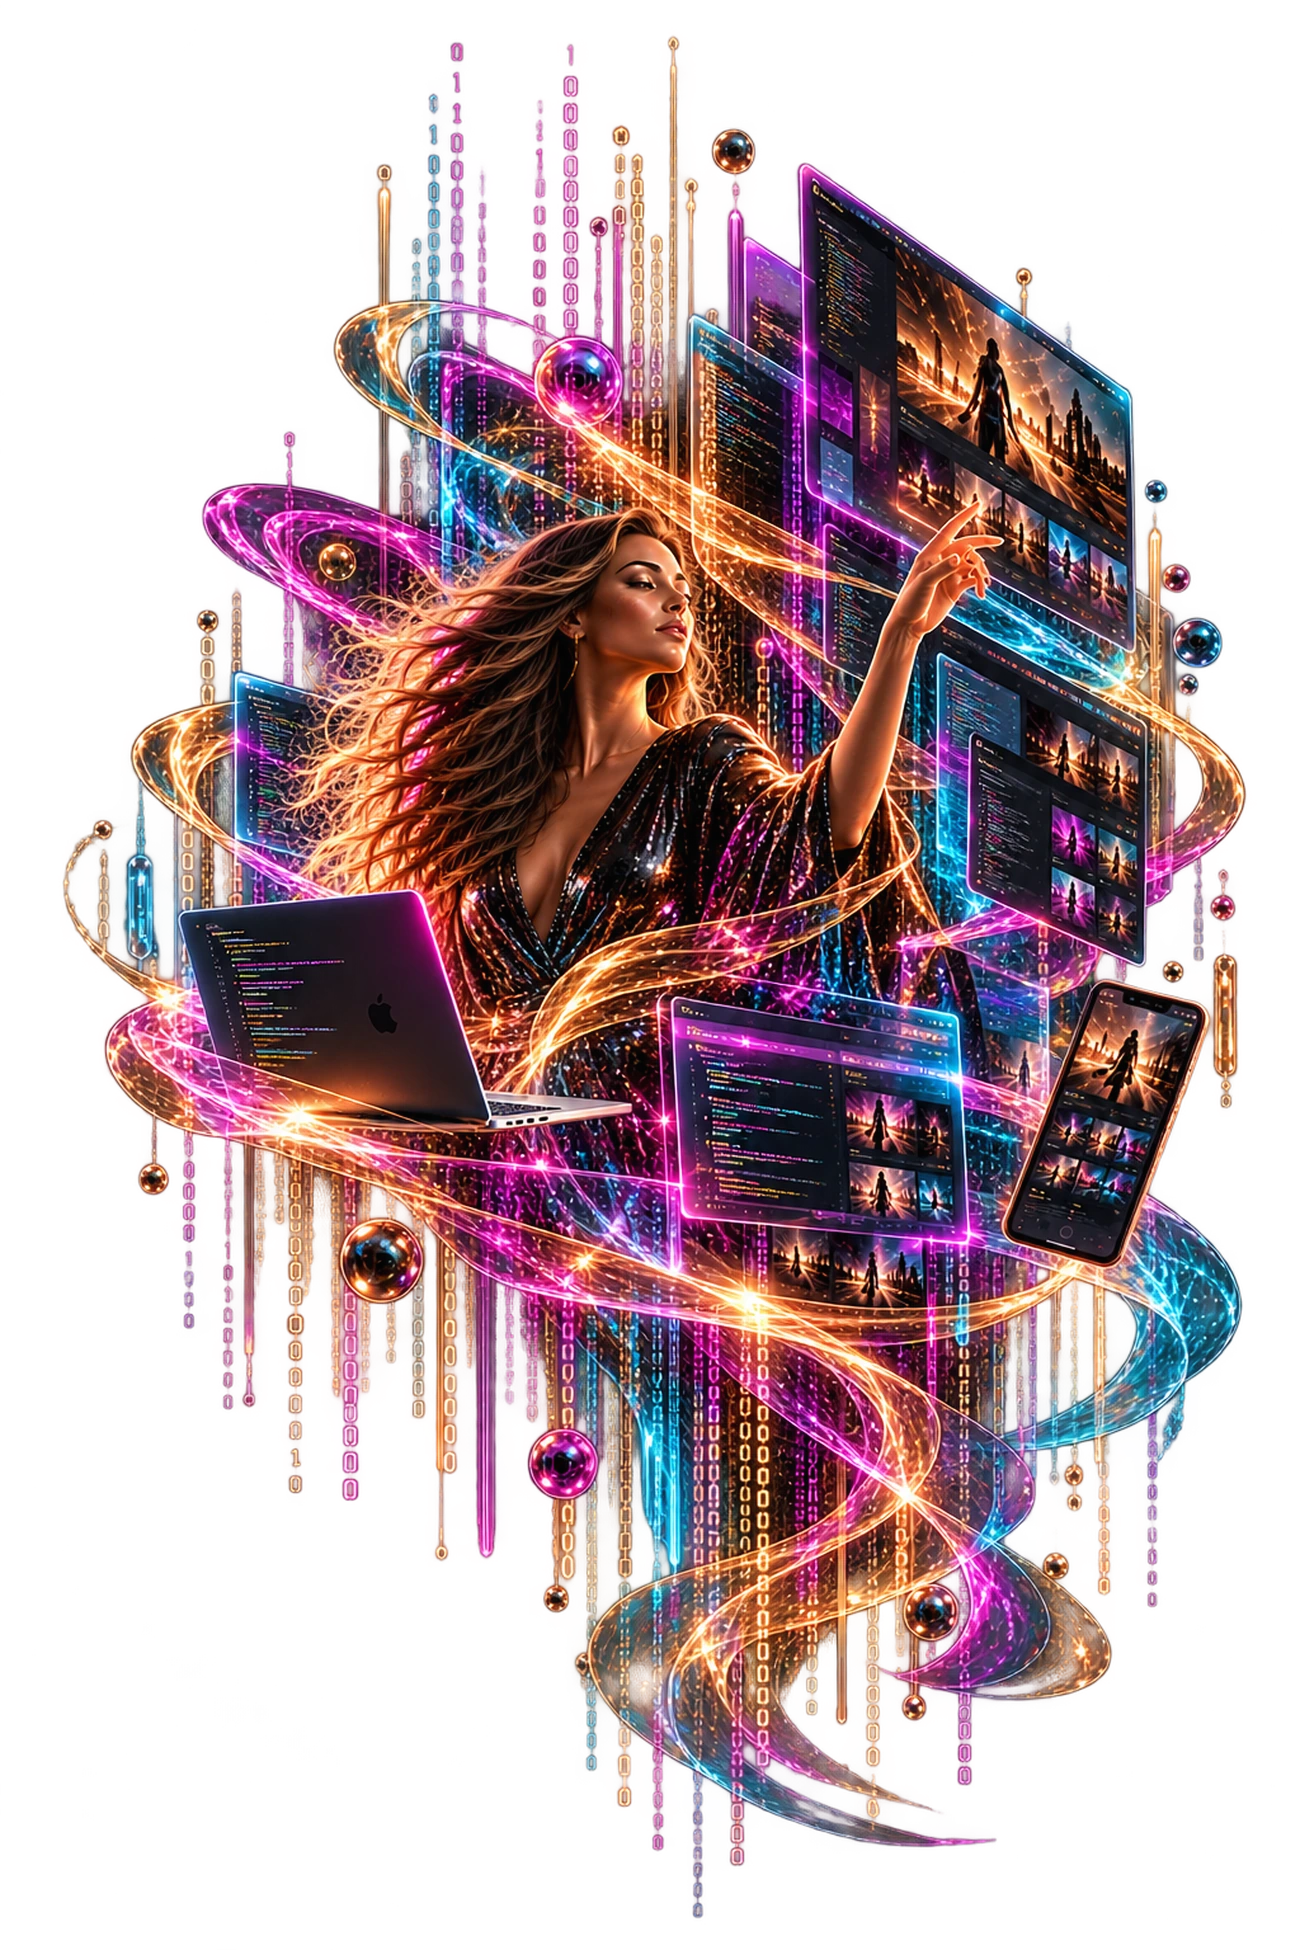
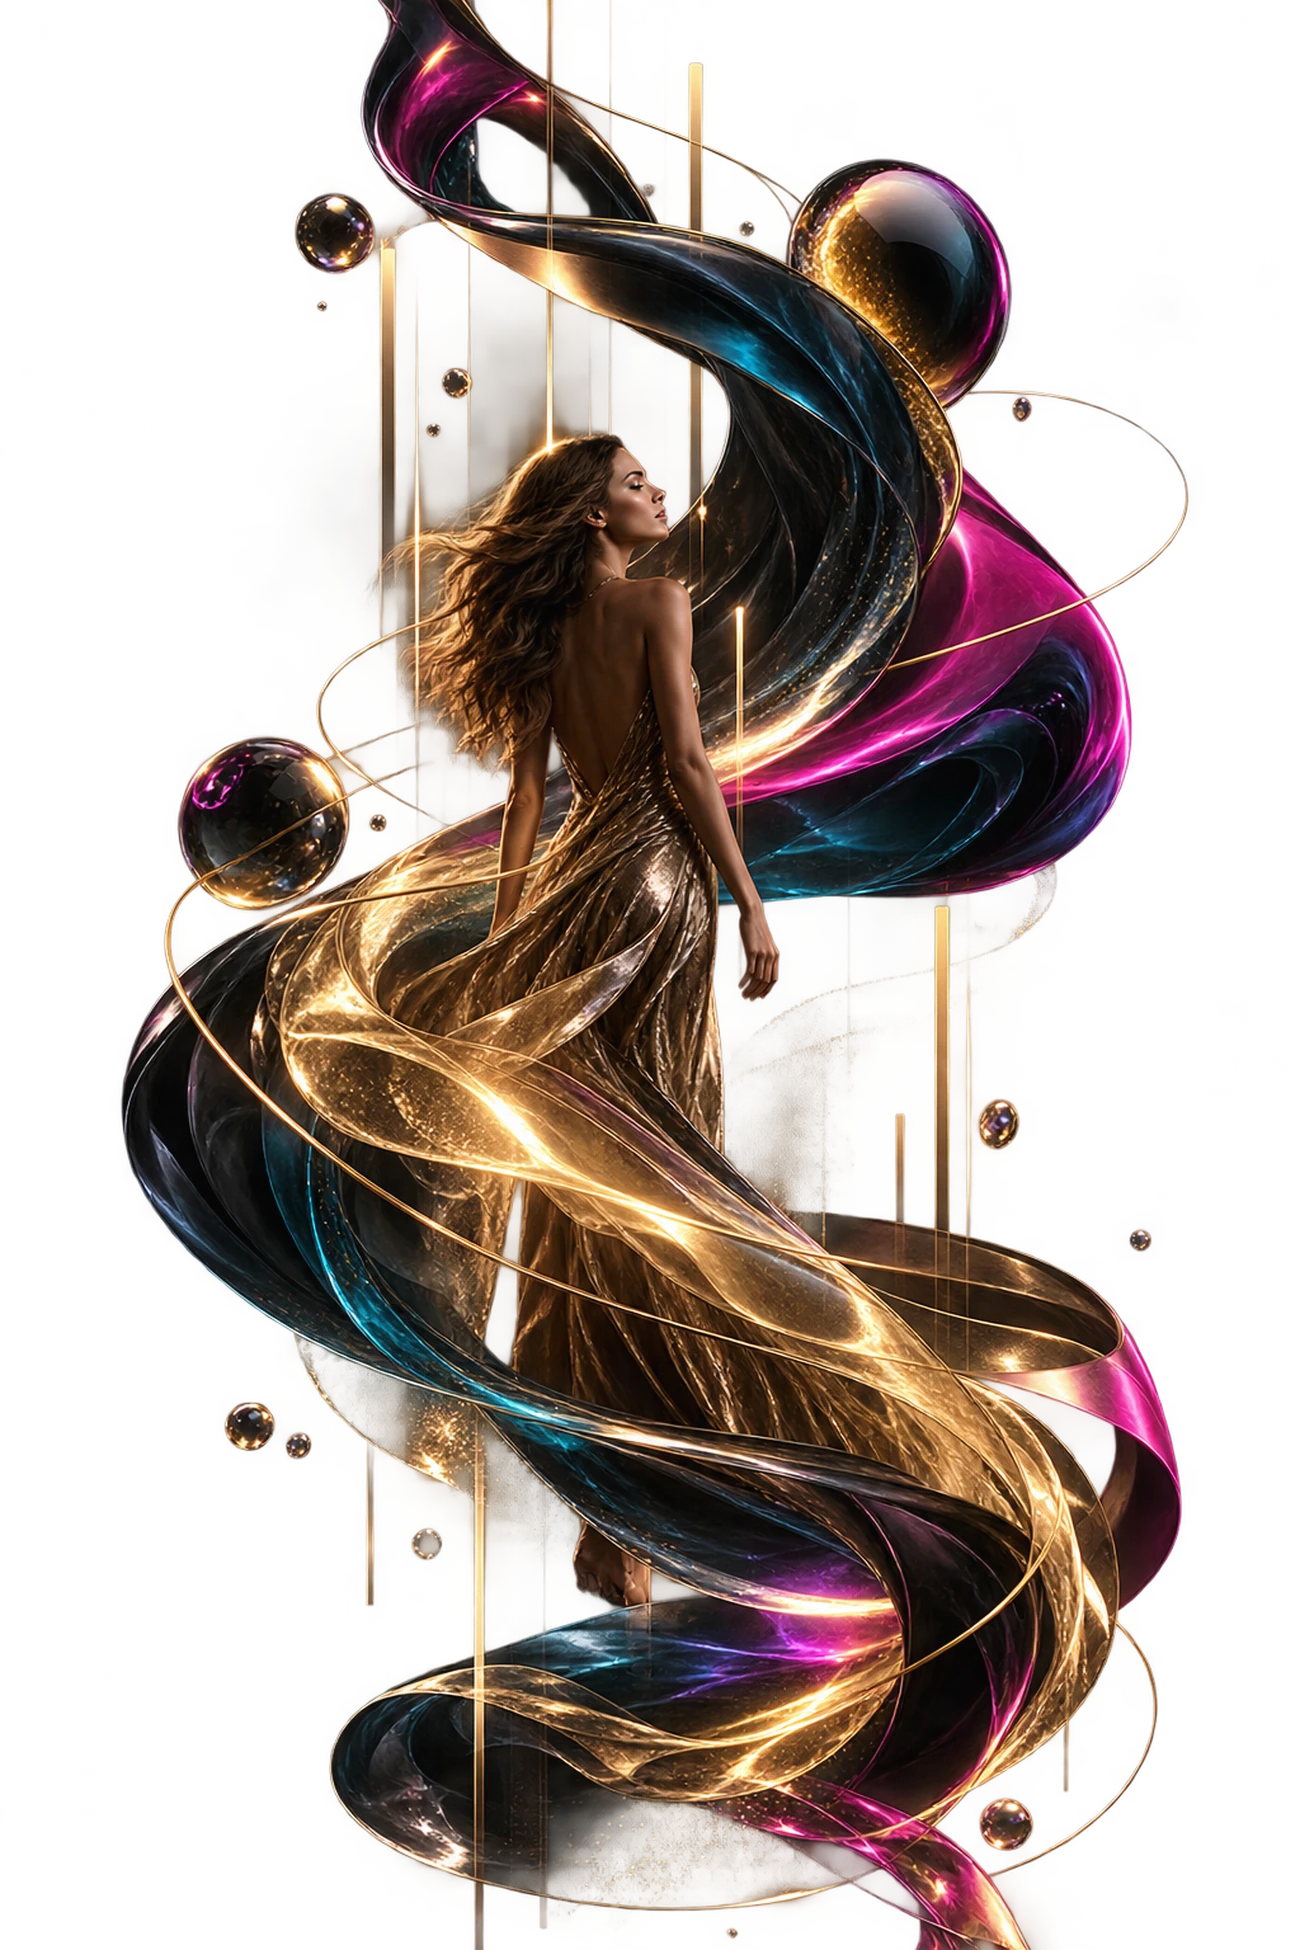
Add files via upload

diff --git a/app/page.js b/app/page.js
@@ -59,7 +59,7 @@ export default function HomePage() {
             <div className="glow-blob absolute -right-10 -top-10 h-40 w-40 rounded-full bg-gradient-to-br from-pink via-yellow to-blue opacity-40" />
             <img
               src="/images/hero-visual.webp"
-              alt="A woman surrounded by holographic website screens and streams of code, in pink, blue and orange neon"
+              alt="A woman in a flowing gold gown surrounded by swirling ribbons of light and glowing orbs, in pink, blue and gold"
               className="relative w-full object-contain drop-shadow-2xl"
             />
           </div>
